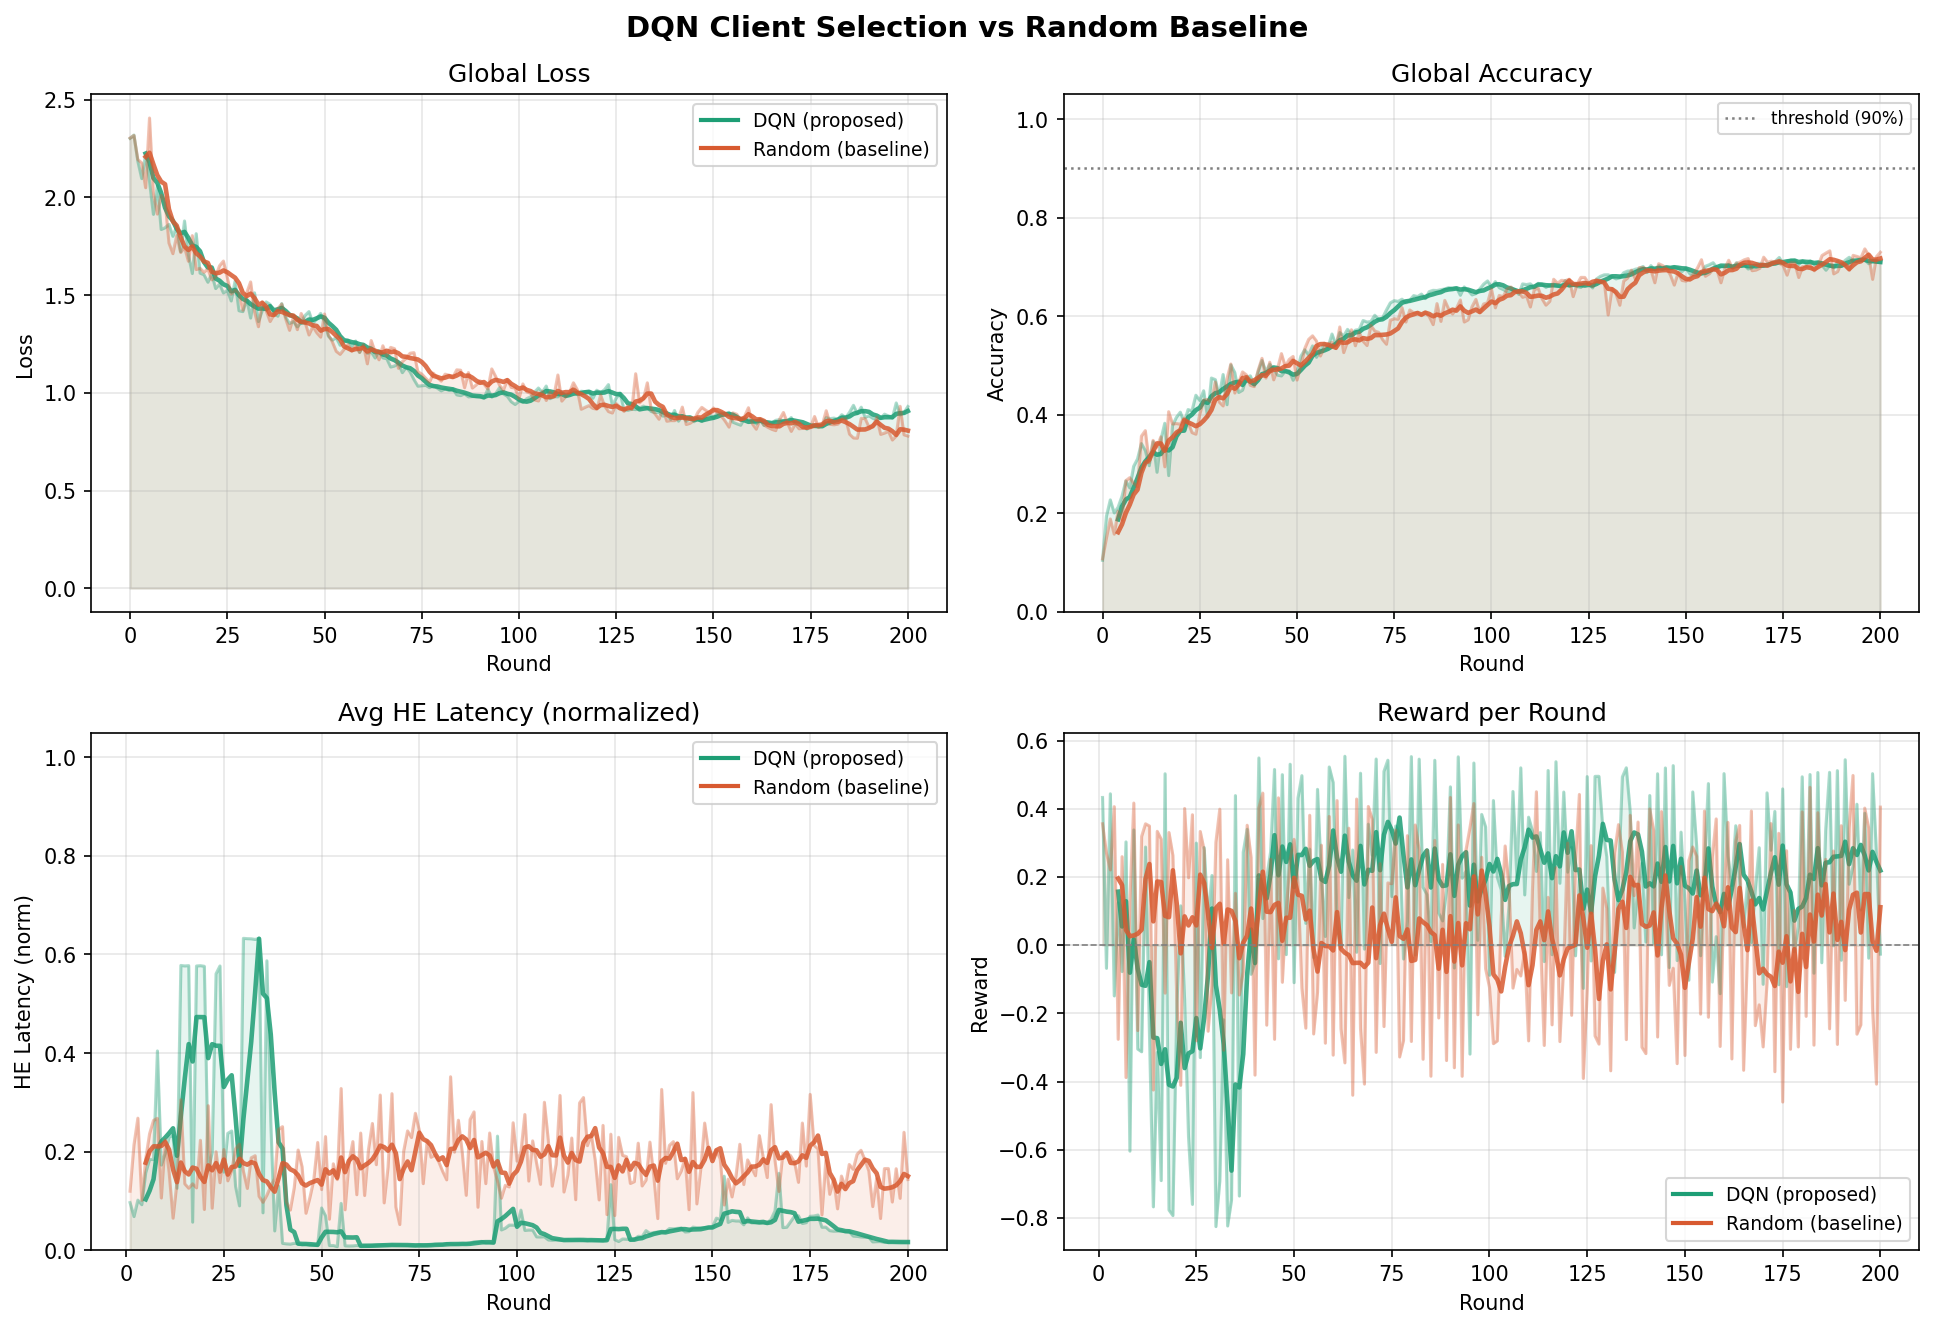
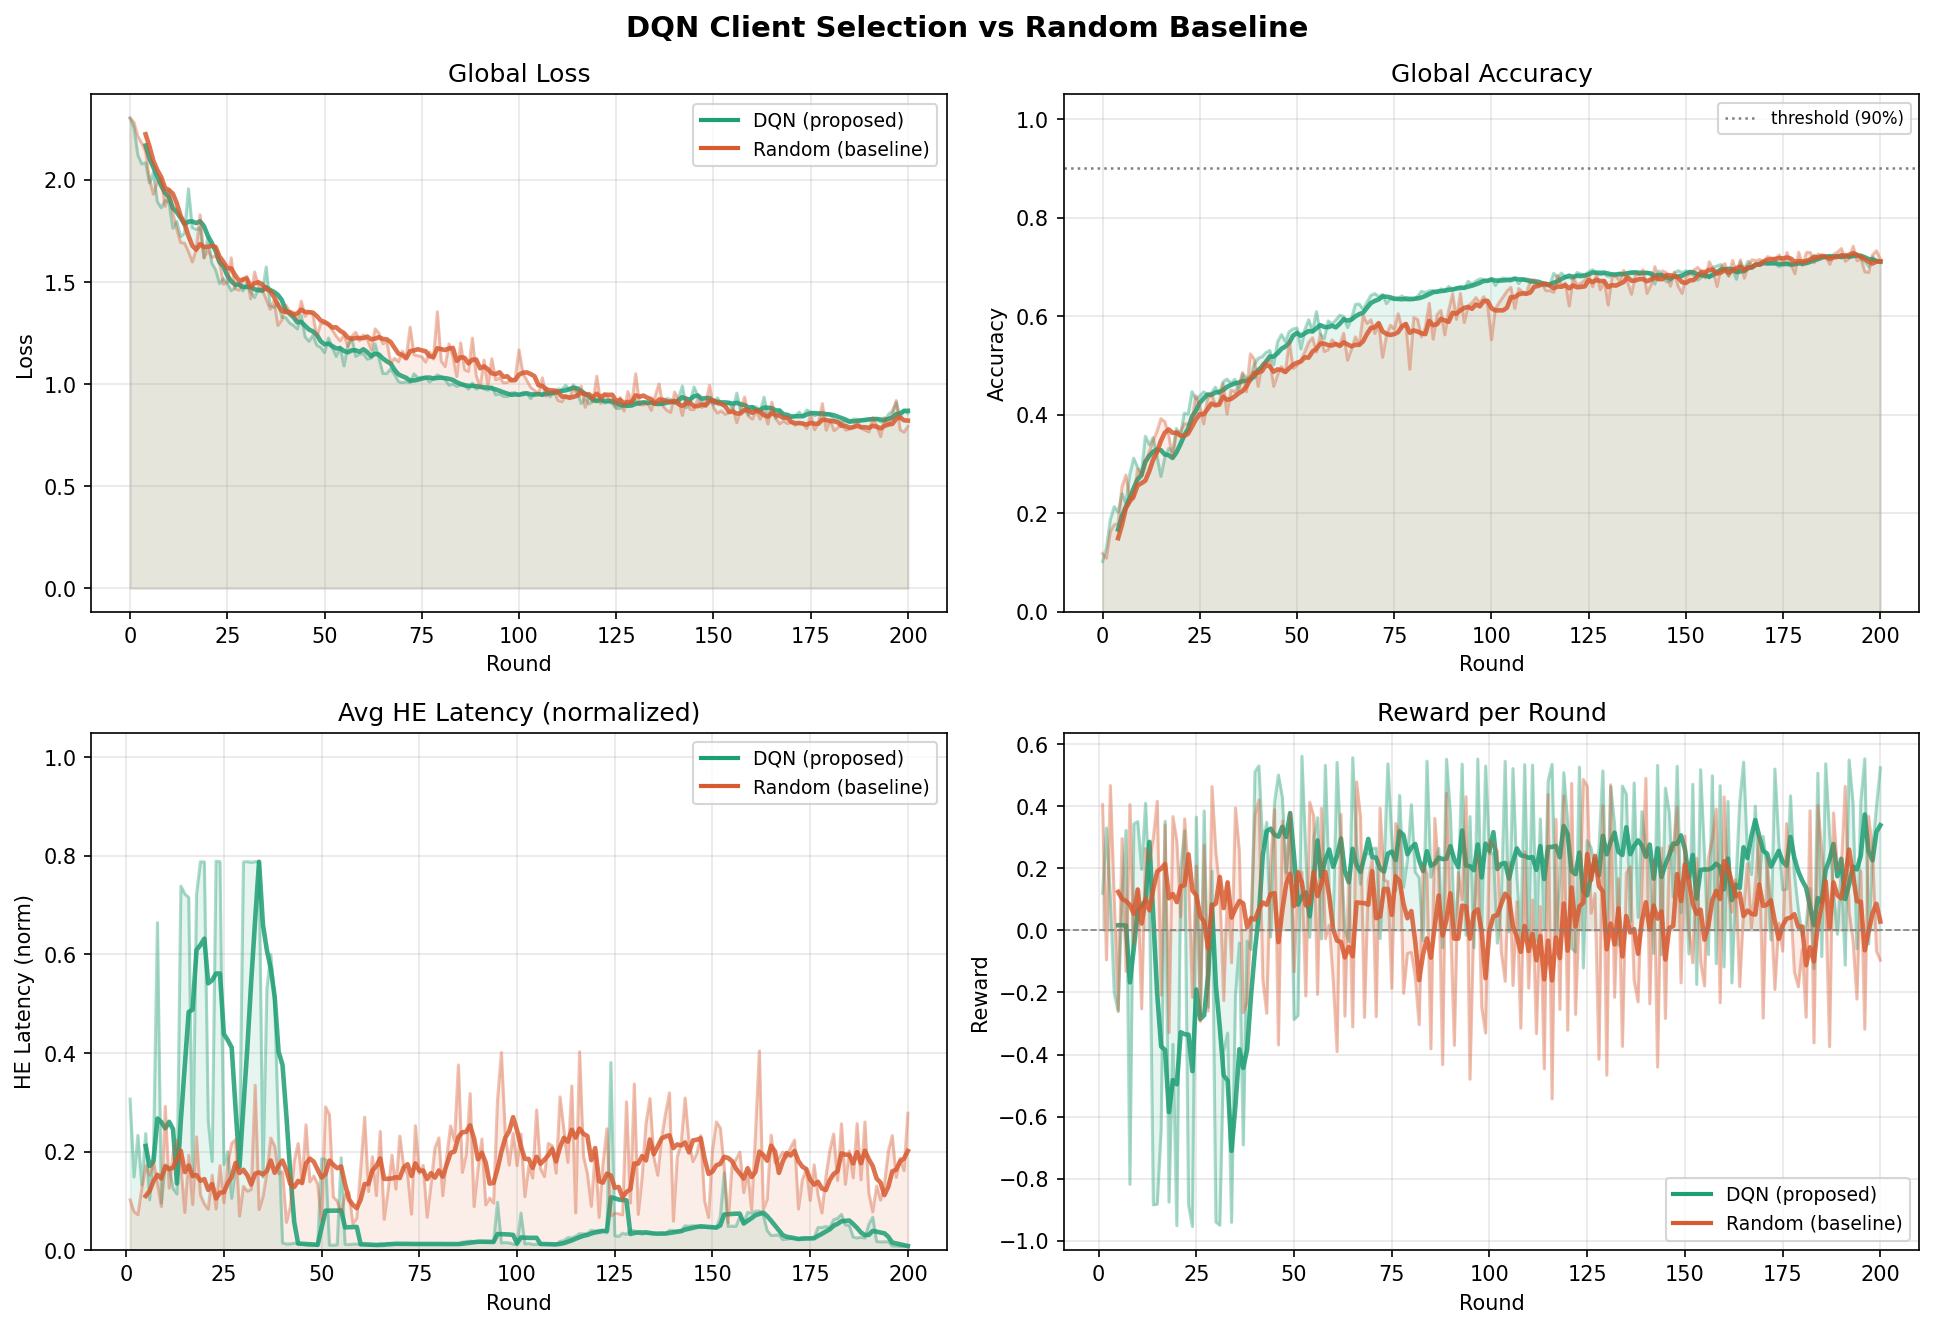
results 추가

diff --git a/random_strategy.py b/random_strategy.py
@@ -1,9 +1,6 @@
 """
 random_strategy.py - Random selection baseline
 DQN과 동일한 reward 공식 사용 (공정한 비교)
-
-수정 사항:
-    [TUNE-1] reward 가중치·tanh 스케일·fast_bonus를 DQN과 동일하게 맞춤
 """
 
 import random
@@ -85,7 +82,7 @@ class FedAvgWithRandom(FedAvg):
         # [HACK]: 하드 코딩으로 동일하게 수정
         w1 = 0.30  # accuracy
         w2 = 0.10  # quality
-        w3 = 0.55   # HE latency(defalut=0.55)
+        w3 = 0.55  # HE latency(defalut=0.55)
         w4 = 0.05  # dropout
         reward = (
               w1 * acc_gain_norm
